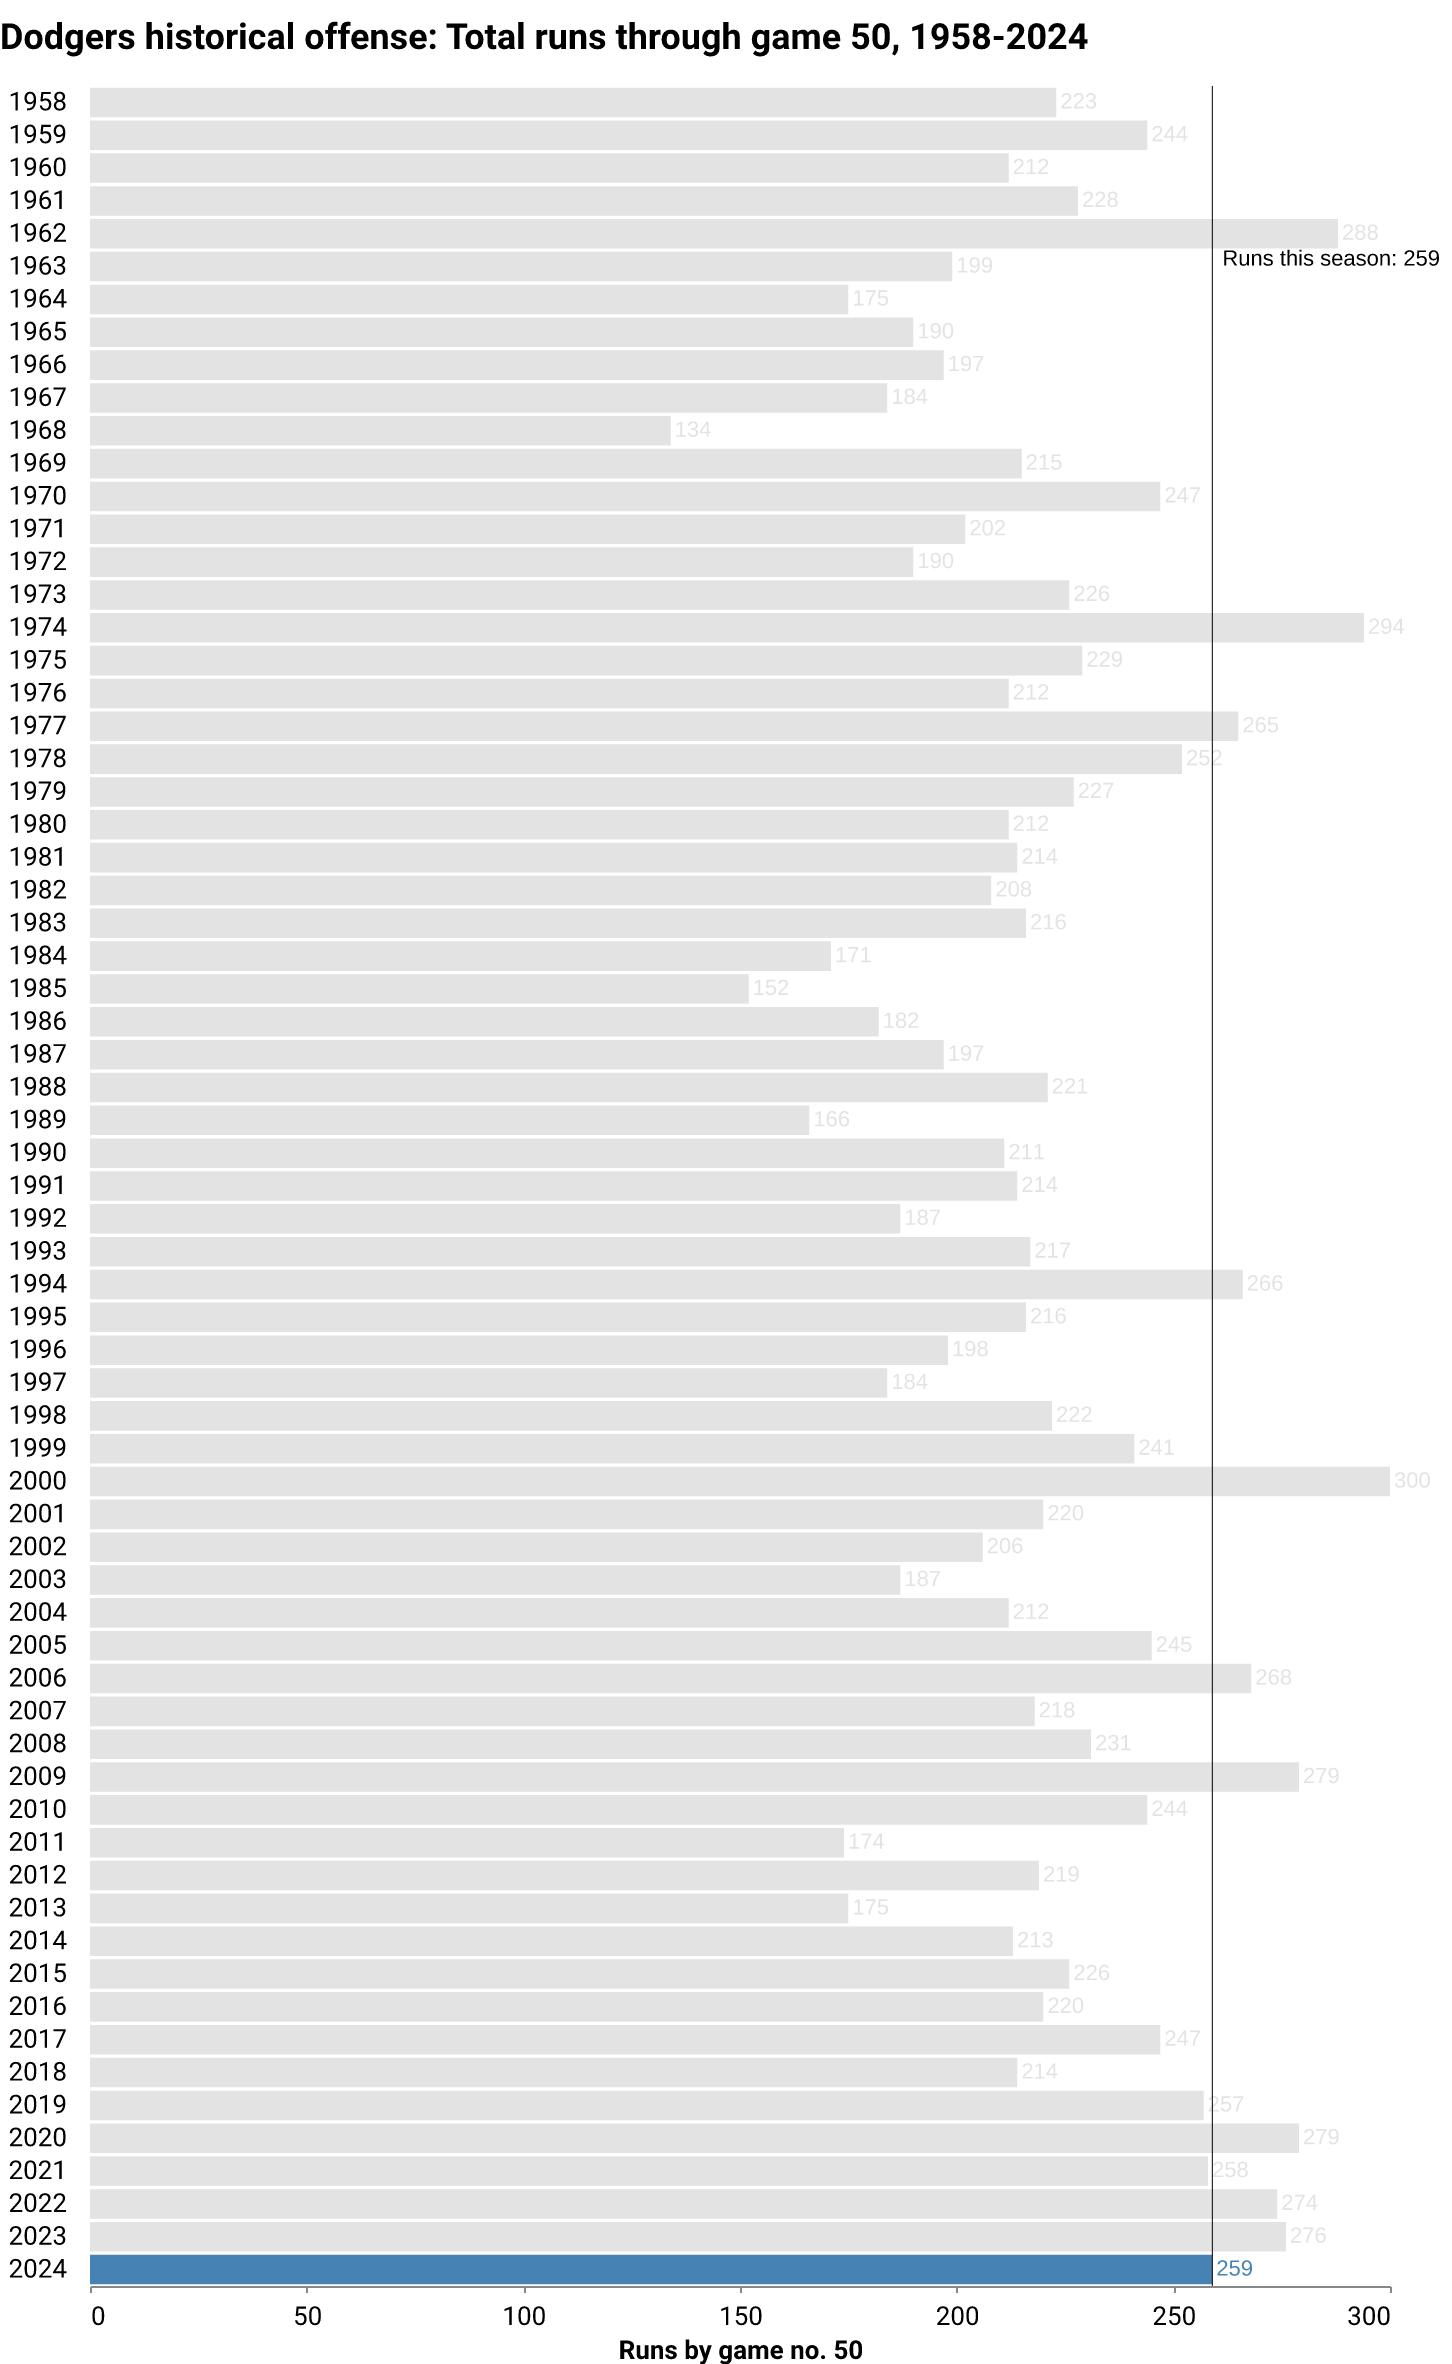
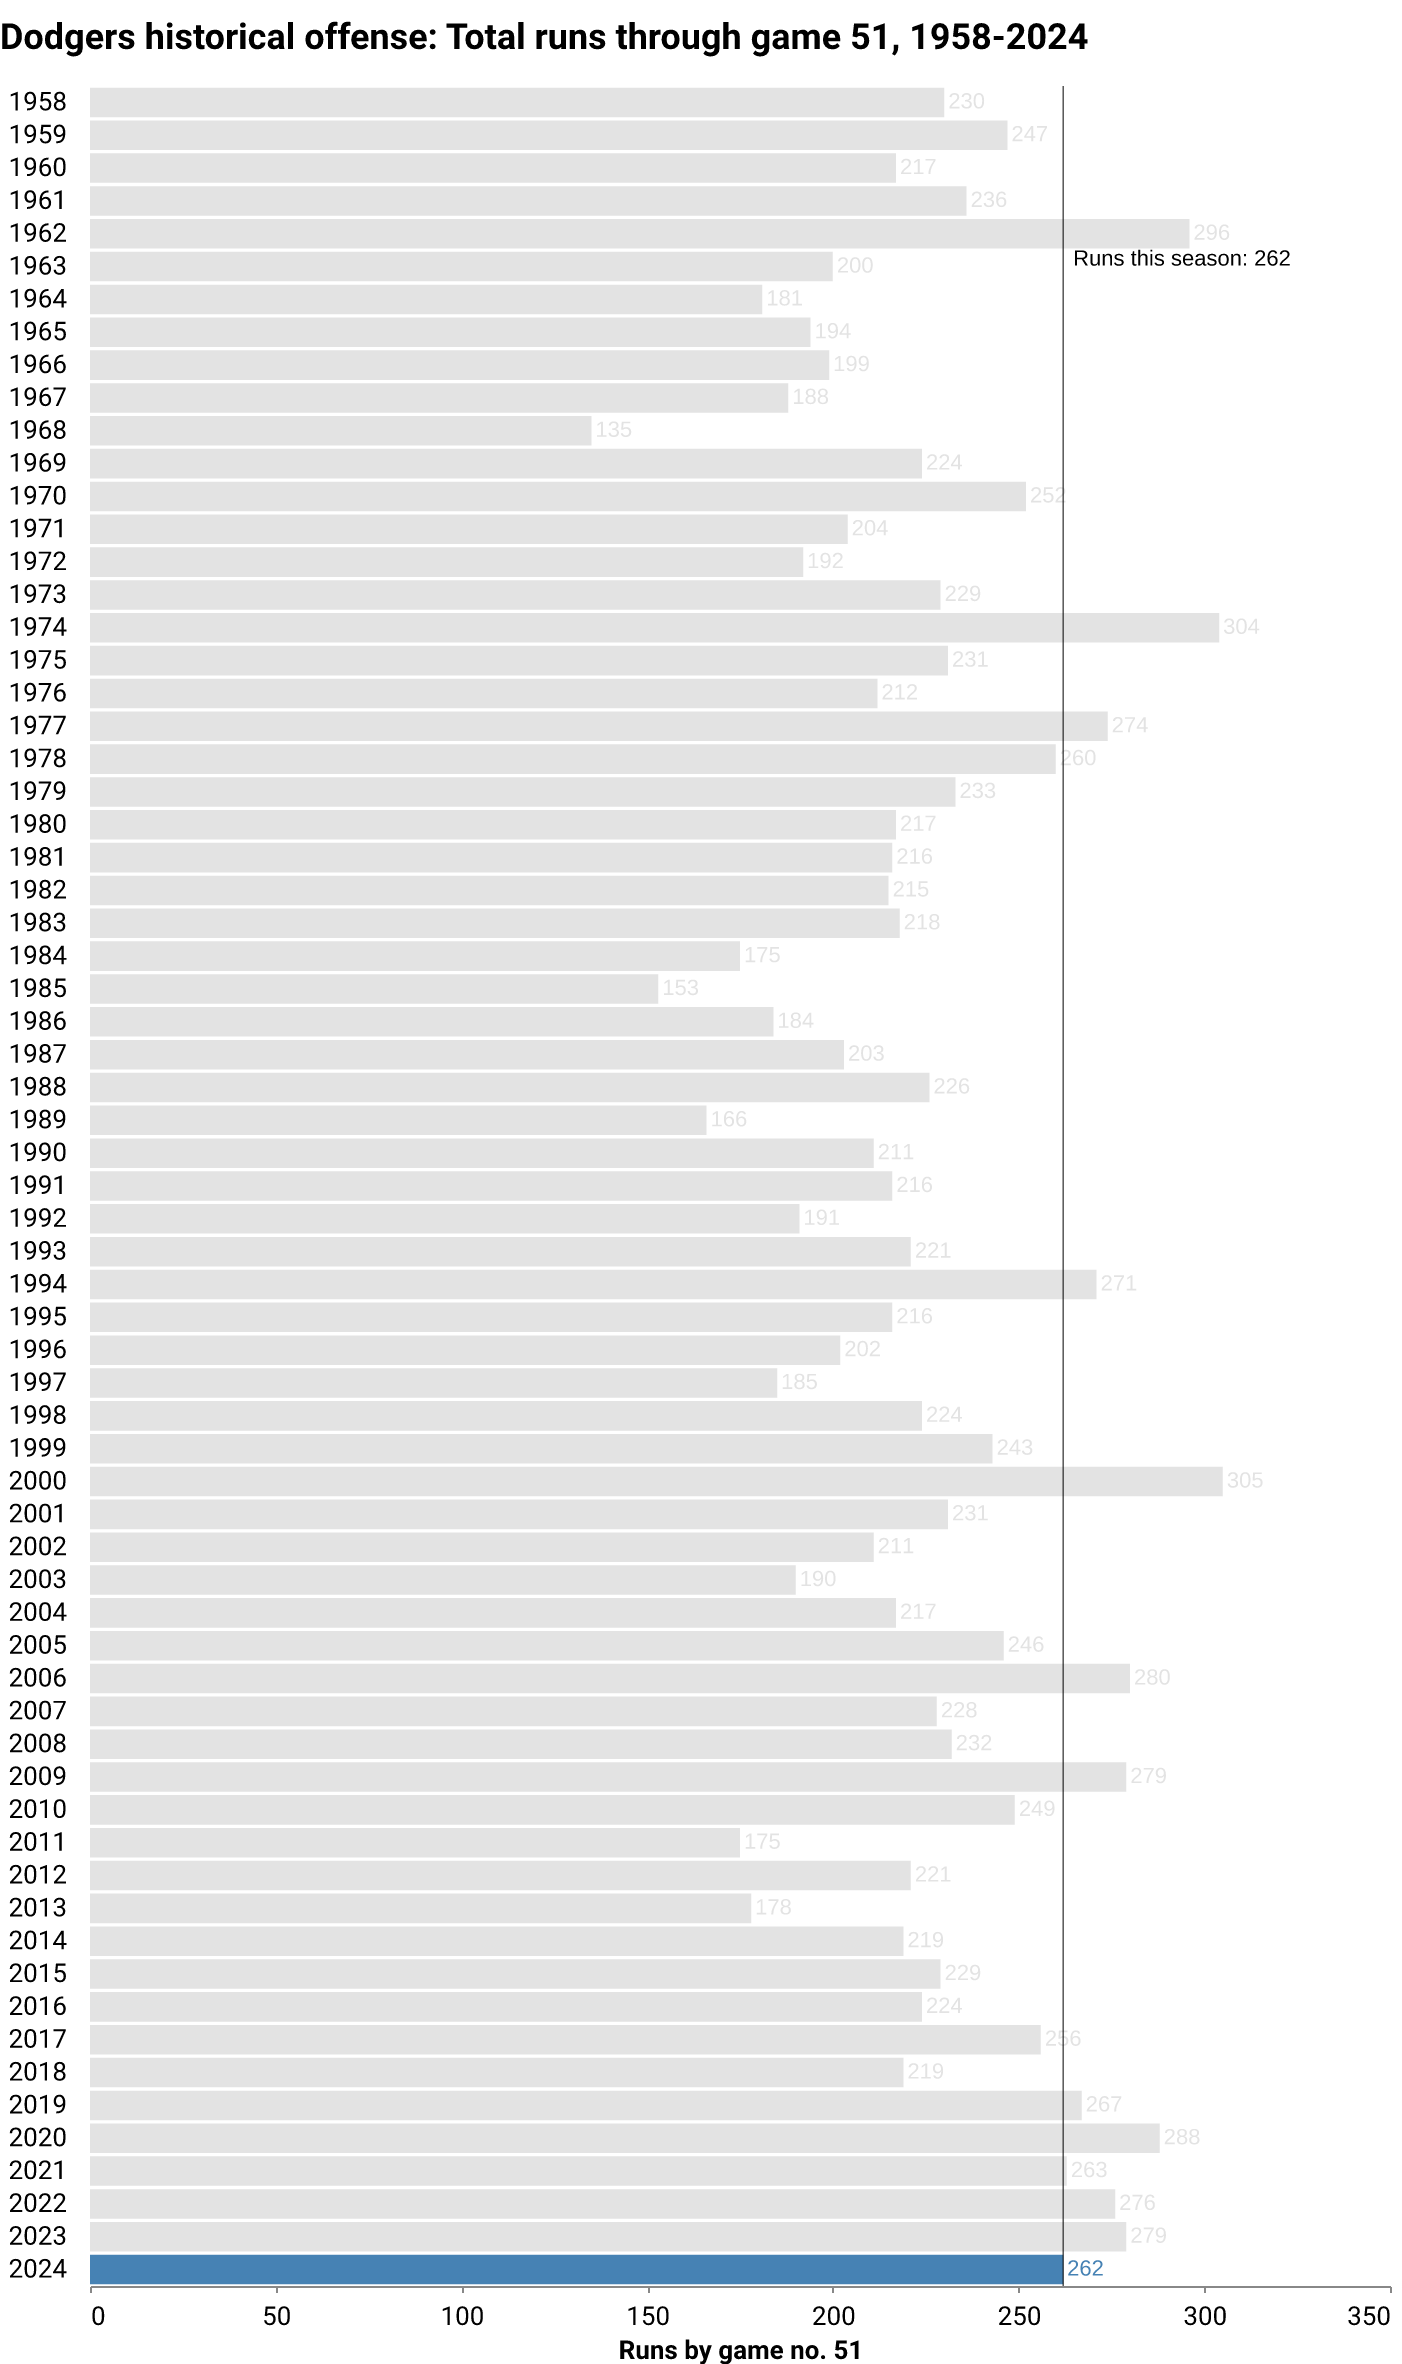
deploy: f7ea464b132aa9a42c488147dfff4365a72eeb27

diff --git a/index.html b/index.html
@@ -174,7 +174,7 @@
 
 <div class="page-topper">
   <h1 class="headline">How are the Dodgers doing?</h1>
-  <p class="subhead"><span class="highlight">May 22</span> — The Dodgers have played <span class="highlight">50</span> games this season, compiling a <span class="highlight">33-17</span> record and a winning percentage of <span class="highlight">66%</span>. The team's latest game was a 6-4 home <span class="highlight">win</span> against the Arizona Diamondbacks in front of <span class="highlight">37,634</span> fans. They've won <span class="highlight">7 of the last 10 games</span>. </p>
+  <p class="subhead"><span class="highlight">May 22</span> — The Dodgers have played <span class="highlight">51</span> games this season, compiling a <span class="highlight">33-18</span> record and a winning percentage of <span class="highlight">65%</span>. The team's latest game was a 3-7 home <span class="highlight">loss</span> against the Arizona Diamondbacks in front of <span class="highlight">46,180</span> fans. They've won <span class="highlight">6 of the last 10 games</span>. </p>
 <div>
 
 
@@ -211,10 +211,10 @@
             Losses
           </div>
           <div class="card-body">
-            <p class="card-text">17</p>
+            <p class="card-text">18</p>
           </div>
           <div class="card-footer text-muted">
-        This point last season: 19
+        This point last season: 20
           </div>
         </div>
       </div>
@@ -227,10 +227,10 @@
             Record
           </div>
           <div class="card-body">
-            <p class="card-text">33-17</p>
+            <p class="card-text">33-18</p>
           </div>
           <div class="card-footer text-muted">
-        This point last season: 31-19
+        This point last season: 31-20
           </div>
         </div>
       </div>
@@ -243,10 +243,10 @@
             Win percentage
           </div>
           <div class="card-body">
-            <p class="card-text">66%</p>
+            <p class="card-text">65%</p>
           </div>
           <div class="card-footer text-muted">
-        This point last season: 62%
+        This point last season: 61%
           </div>
         </div>
       </div>
@@ -275,10 +275,10 @@
             Avg. home attendance
           </div>
           <div class="card-body">
-            <p class="card-text">46,476</p>
+            <p class="card-text">46,465</p>
           </div>
           <div class="card-footer text-muted">
-        Home games this season: 28
+        Home games this season: 29
           </div>
         </div>
       </div>
@@ -291,7 +291,7 @@
             Runs
           </div>
           <div class="card-body">
-            <p class="card-text">259</p>
+            <p class="card-text">262</p>
           </div>
           <div class="card-footer text-muted">
         League rank: 1
@@ -307,10 +307,10 @@
             Runs against
           </div>
           <div class="card-body">
-            <p class="card-text">172</p>
+            <p class="card-text">179</p>
           </div>
           <div class="card-footer text-muted">
-        This point last season: 219
+        This point last season: 223
           </div>
         </div>
       </div>
@@ -323,10 +323,10 @@
             Run differential
           </div>
           <div class="card-body">
-            <p class="card-text">87</p>
+            <p class="card-text">83</p>
           </div>
           <div class="card-footer text-muted">
-        This point last season: 57
+        This point last season: 56
           </div>
         </div>
       </div>
@@ -392,7 +392,7 @@
             Batting average
           </div>
           <div class="card-body">
-            <p class="card-text">.259</p>
+            <p class="card-text">.257</p>
           </div>
           <div class="card-footer text-muted">
         Last decade average: .253
@@ -424,7 +424,7 @@
             Home runs/game
           </div>
           <div class="card-body">
-            <p class="card-text">1.32</p>
+            <p class="card-text">1.29</p>
           </div>
           <div class="card-footer text-muted">
         Last decade average: 1.36
@@ -440,7 +440,7 @@
             On-base percentage
           </div>
           <div class="card-body">
-            <p class="card-text">.340</p>
+            <p class="card-text">.338</p>
           </div>
           <div class="card-footer text-muted">
         Last decade average: .332
@@ -456,10 +456,10 @@
             Stolen bases
           </div>
           <div class="card-body">
-            <p class="card-text">31</p>
+            <p class="card-text">34</p>
           </div>
           <div class="card-footer text-muted">
-        League rank: 7
+        League rank: 6
           </div>
         </div>
       </div>
@@ -472,7 +472,7 @@
             Stolen bases/game
           </div>
           <div class="card-body">
-            <p class="card-text">0.62</p>
+            <p class="card-text">0.67</p>
           </div>
           <div class="card-footer text-muted">
         Rate all last season: 0.65
@@ -543,7 +543,7 @@
             Strikeouts
           </div>
           <div class="card-body">
-            <p class="card-text">421</p>
+            <p class="card-text">428</p>
           </div>
           <div class="card-footer text-muted">
         League rank: 3
@@ -559,7 +559,7 @@
             Walks
           </div>
           <div class="card-body">
-            <p class="card-text">142</p>
+            <p class="card-text">144</p>
           </div>
           <div class="card-footer text-muted">
         League rank: 4
@@ -575,10 +575,10 @@
             ERA
           </div>
           <div class="card-body">
-            <p class="card-text">3.16</p>
+            <p class="card-text">3.23</p>
           </div>
           <div class="card-footer text-muted">
-        League rank: 1
+        League rank: 2
           </div>
         </div>
       </div>
@@ -656,7 +656,7 @@
 
 
 
-<p class="dated">Notes: Last updated May 22, 2024, 6:56 AM PT. More <a href="https://github.com/stiles/dodgers/blob/main/README.md">about the data</a>.</p>
+<p class="dated">Notes: Last updated May 22, 2024, 9:03 AM PT. More <a href="https://github.com/stiles/dodgers/blob/main/README.md">about the data</a>.</p>
 
 
 </div>
